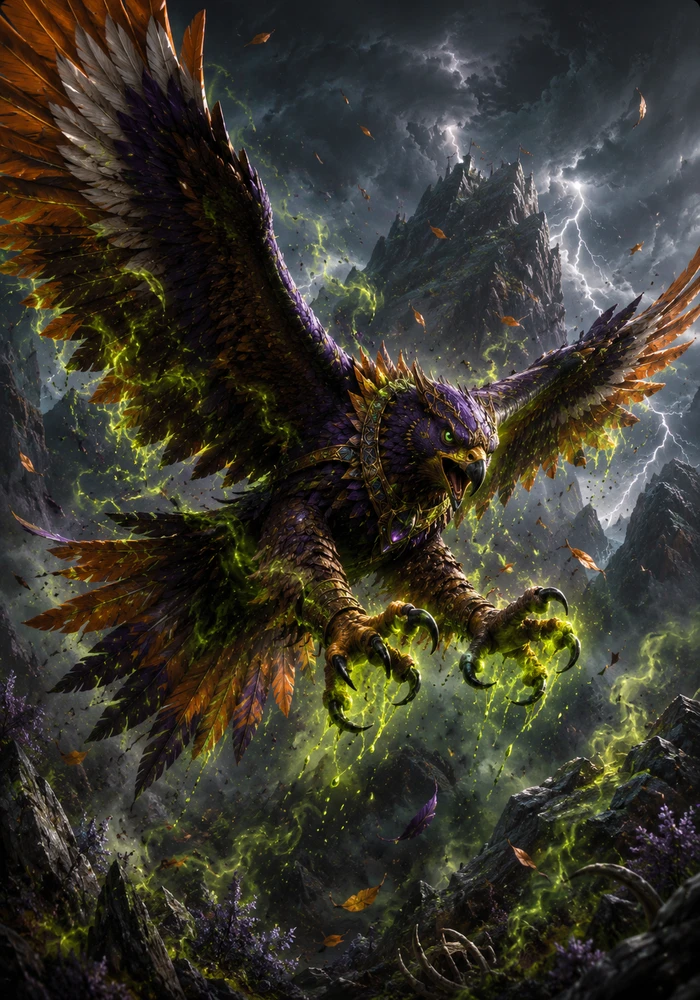
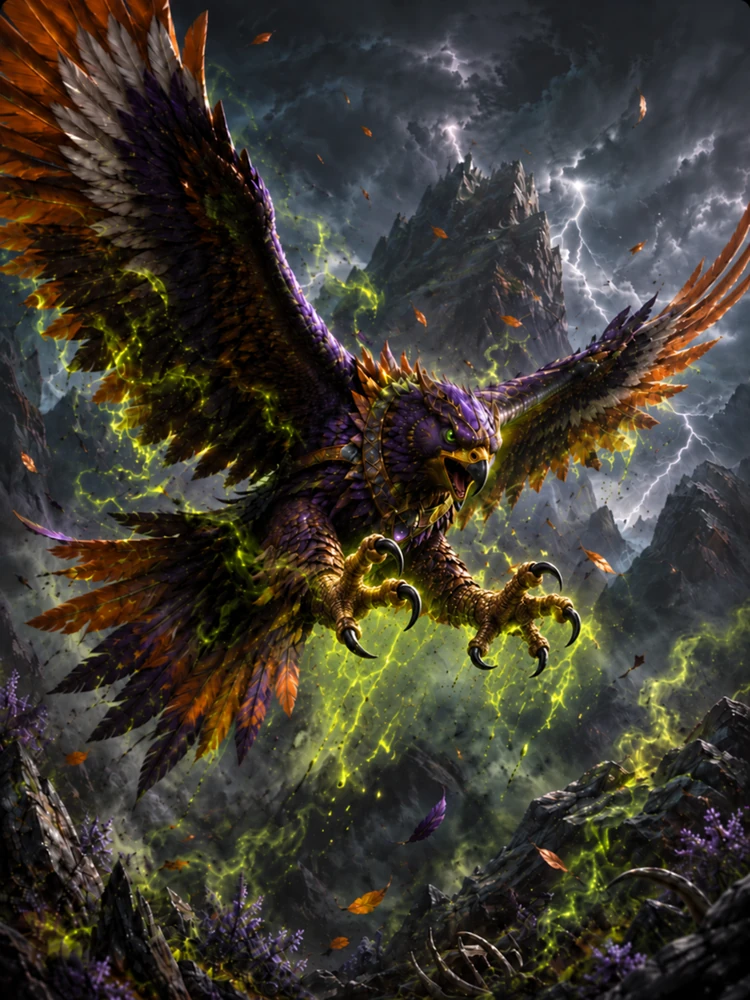
feat(gale): new Toxhawk plate, and Mesala raises the real bird
ART. New plate from a 1086x1448 source — aspect 0.75 exactly, so the
750x1000 resize is lossless and lands on the commonest size in the set.
Height 1000 per the convention, width from the source's own aspect;
nothing catches a squashed plate, `art.test.ts` only checks the file
exists. `gale_toxhawk_tok` borrows this plate, so both bodies update.

MESALA. Its End of Round raised `gale_toxhawk_tok` — a body named
"Raptor" that wears Toxhawk's art, carries Toxhawk's tribe, keywords and
Toxic Talons, and differs from the real card in exactly one number: 3 HP
against 6. The board showed a Toxhawk, the card said Raptor, and what
landed was a quietly weaker copy of a Rare the player can already own.

It raises the actual card now. That is +3 points of body on a spawn
leashed to one alive at a time, and it buys back the card it was always
pretending to be. `spawnTokens` resolves through `getDef`/`summonCard`,
so a non-token id needs no new machinery.

The token STAYS: The Raptor Roosts is named for it and two story nodes
field it by name. Its comment and G9's note said "Raptor Assault" and
"the same bird you fought at the Roosts" — both now false, both fixed.

diff --git a/src/data/cards.ts b/src/data/cards.ts
@@ -10021,9 +10021,21 @@ export const CARDS: CardDef[] = [
     // that do arrive than out of another layer of unreachability.
     keywords: { EVASION: true },
     tribe: ["Avian", "Dark Wind"],
-    // Raptor Assault (End of Round): if no Raptor stands, raise one (capped at 1).
-    passiveNames: { roundTick: "Raptor Assault" },
-    roundTick: { spawn: { token: "gale_toxhawk_tok", count: 1 }, spawnMaxAlive: 1 },
+    // Toxhawk Assault (End of Round): if no Toxhawk stands, raise one (capped at 1).
+    //
+    // THE REAL BIRD, not the token copy of it. This raised `gale_toxhawk_tok`
+    // — a body named "Raptor" that wears Toxhawk's art plate, carries
+    // Toxhawk's tribe, keywords and Toxic Talons, and differs from it in
+    // exactly one number: 3 HP against 6. So the board showed a Toxhawk, the
+    // card said Raptor, and the thing that landed was a quietly weaker copy
+    // of a Rare the player can already own.
+    //
+    // Raising the actual card costs +3 points of body on a spawn that is
+    // leashed to one alive at a time, and buys back the card it was always
+    // pretending to be. The token stays in the set — two story nodes add it
+    // to their rosters — it is just no longer what Mesala calls.
+    passiveNames: { roundTick: "Toxhawk Assault" },
+    roundTick: { spawn: { token: "gale_toxhawk", count: 1 }, spawnMaxAlive: 1 },
     // Razor Wind Talon: rake the enemy's far (home) row — 3 DMG + DOT 1.
     special: {
       name: "Razor Wind Talon",
@@ -15341,7 +15353,9 @@ export const TOKENS: CardDef[] = [
     // Renamed off "ToxHawk": it differed from the draftable Rare "Toxhawk" only
     // in the capital H, which is a collision in every case-insensitive lookup
     // and unreadable in a deck list. Named for the passive that raises it
-    // (Masala's Raptor Assault). Borrows Toxhawk's art.
+    // (Mesala's old Raptor Assault, now Toxhawk Assault, which raises the REAL
+    // bird instead). Still fielded by name at The Raptor Roosts, which is named
+    // for it. Borrows Toxhawk's art.
     name: "Raptor",
     rarity: "rare",
     element: "GALE",

diff --git a/src/data/story.ts b/src/data/story.ts
@@ -606,7 +606,7 @@ const GALE: StoryRegion = {
     { id: "G9", name: "The Shrike Line", kind: "warden", tribe: "Avian", at: { x: 72, y: 58 },
       requires: ["G7", "G8"], roster: ["gale_masala", "gale_vvulture", "gale_guan"],
       adds: ["gale_toxhawk_tok"],
-      note: "Mesala's Raptor Assault raises the same bird you fought at the Roosts.",
+      note: "Mesala's Toxhawk Assault raises the real bird; the Roosts fought its Raptor.",
       lore: "Shrikes keep their larder along the thorn line and GALE has never thinned it. A bird that stores more than it can eat is a neighbour this nation understands, and Vulture waits on the surplus."
      },
     { id: "G10", name: "Stormwall Approach", kind: "warden", tribe: "Wolf", at: { x: 73, y: 27 },
